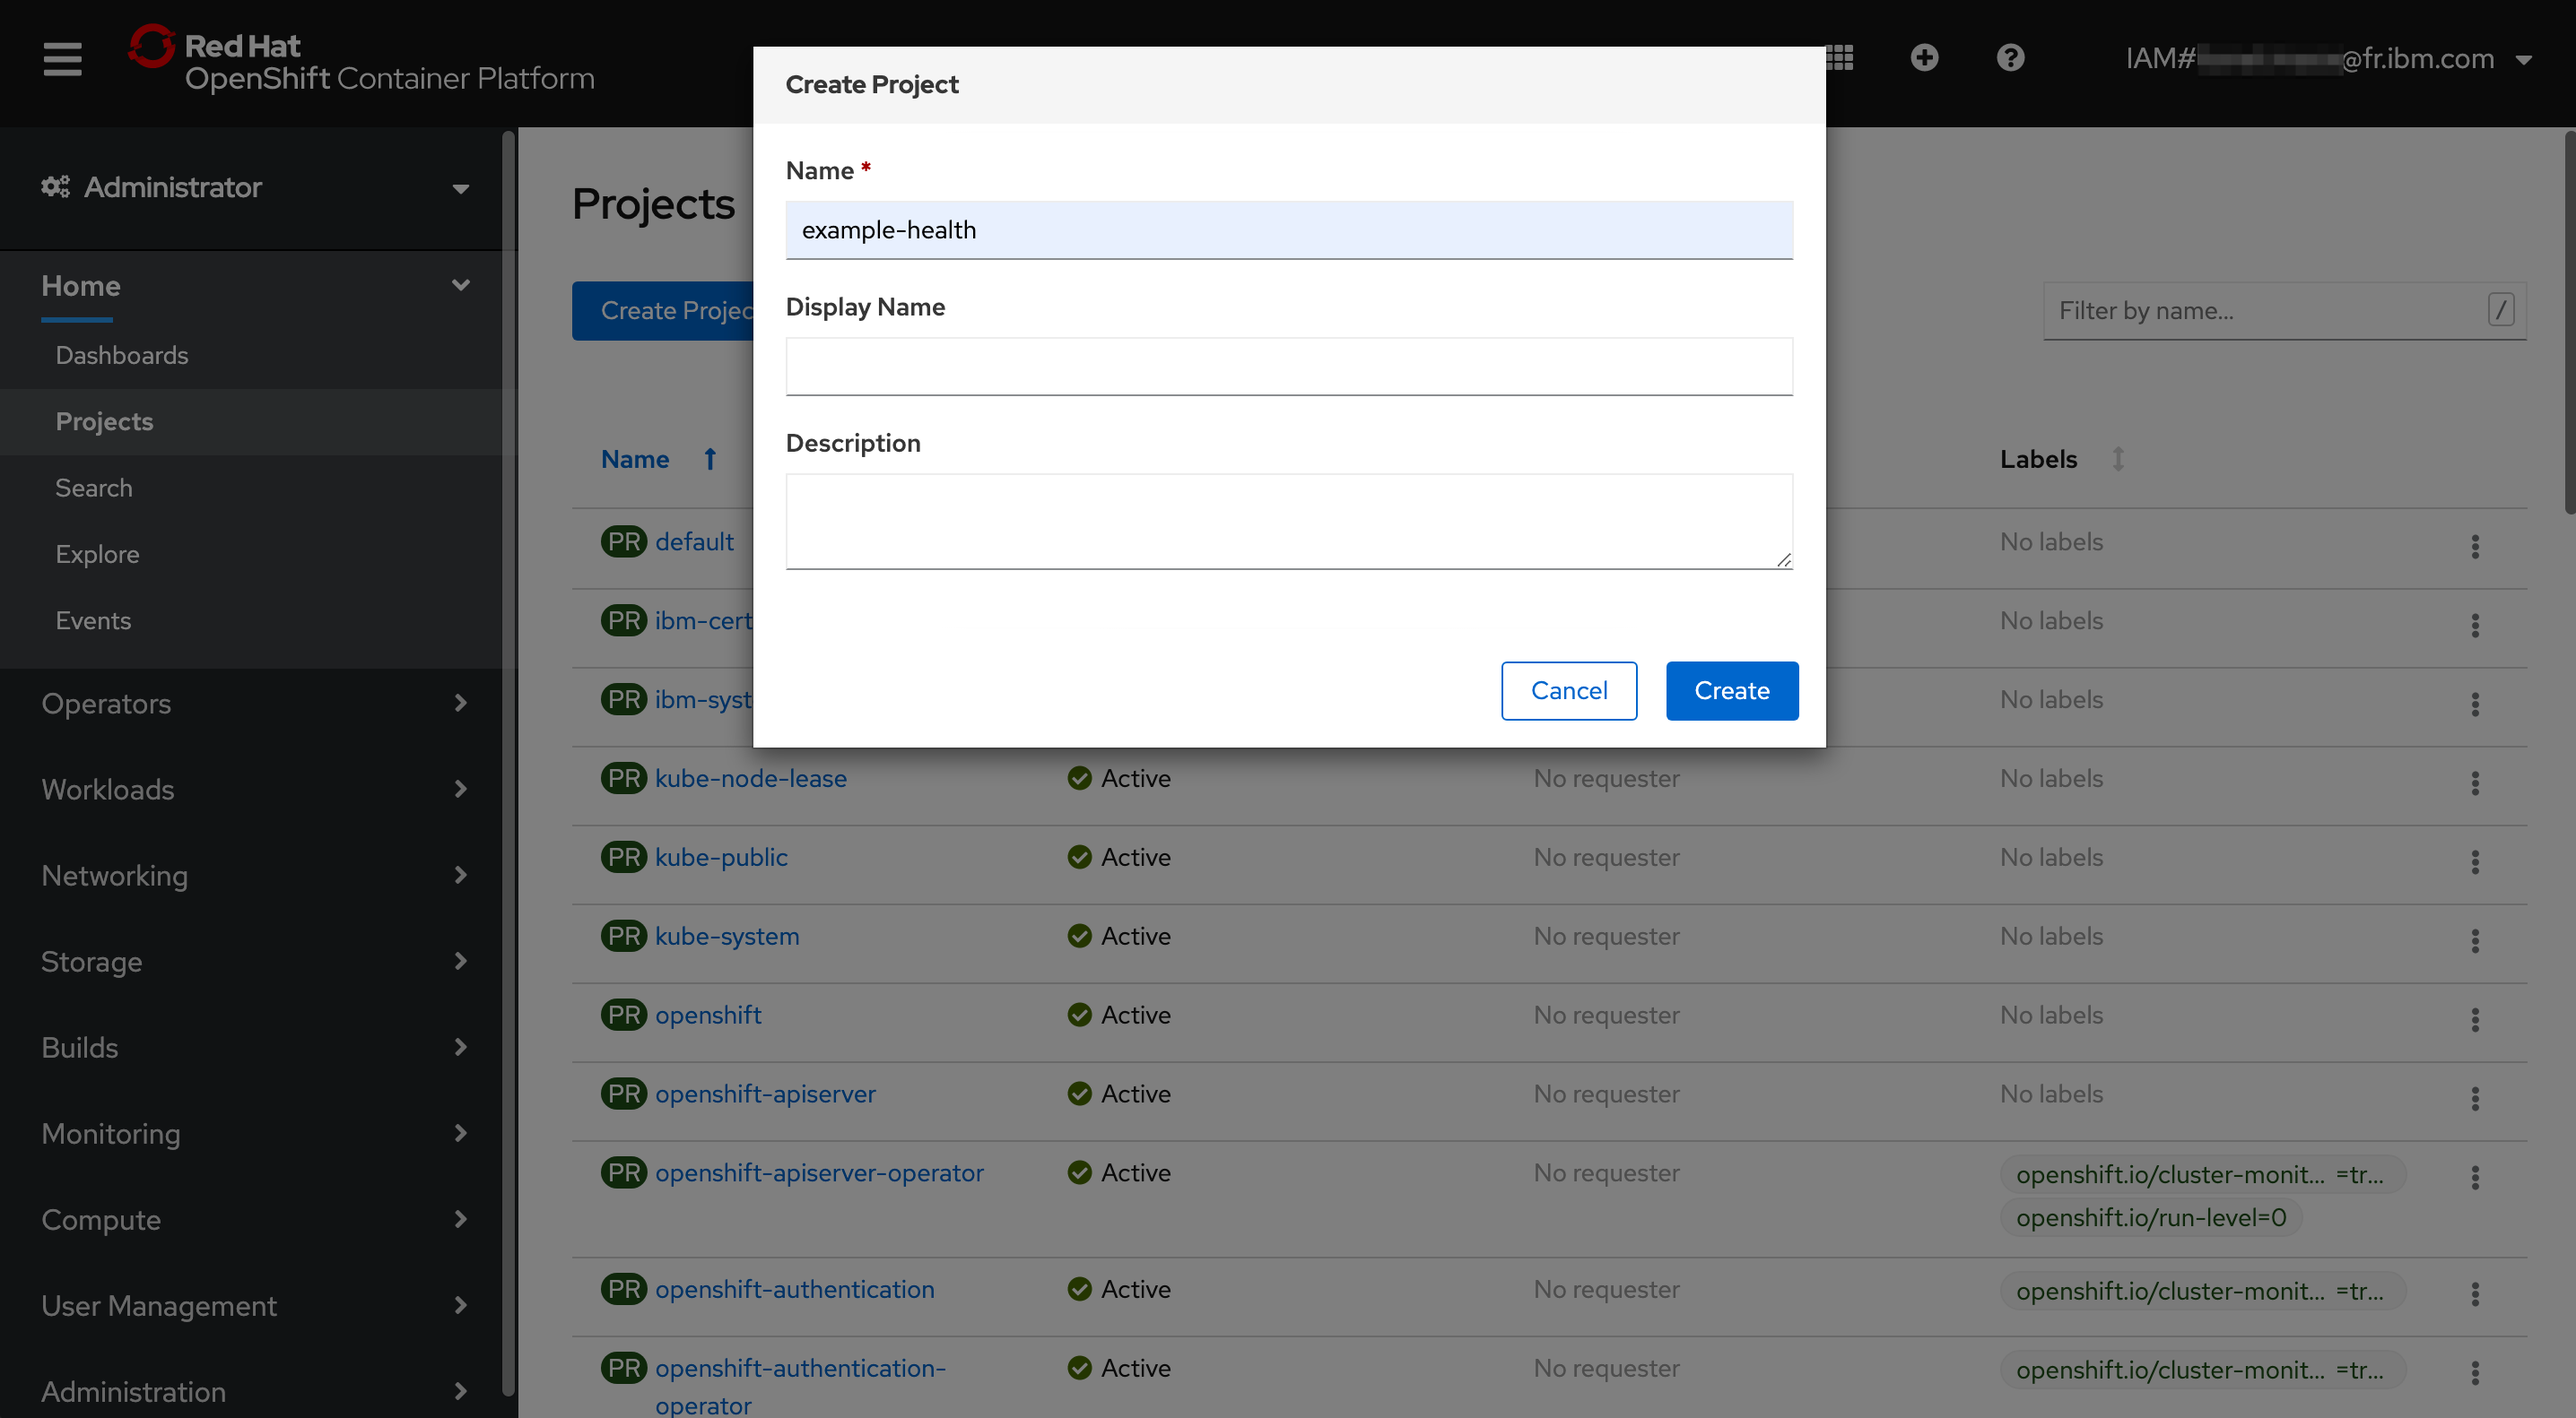
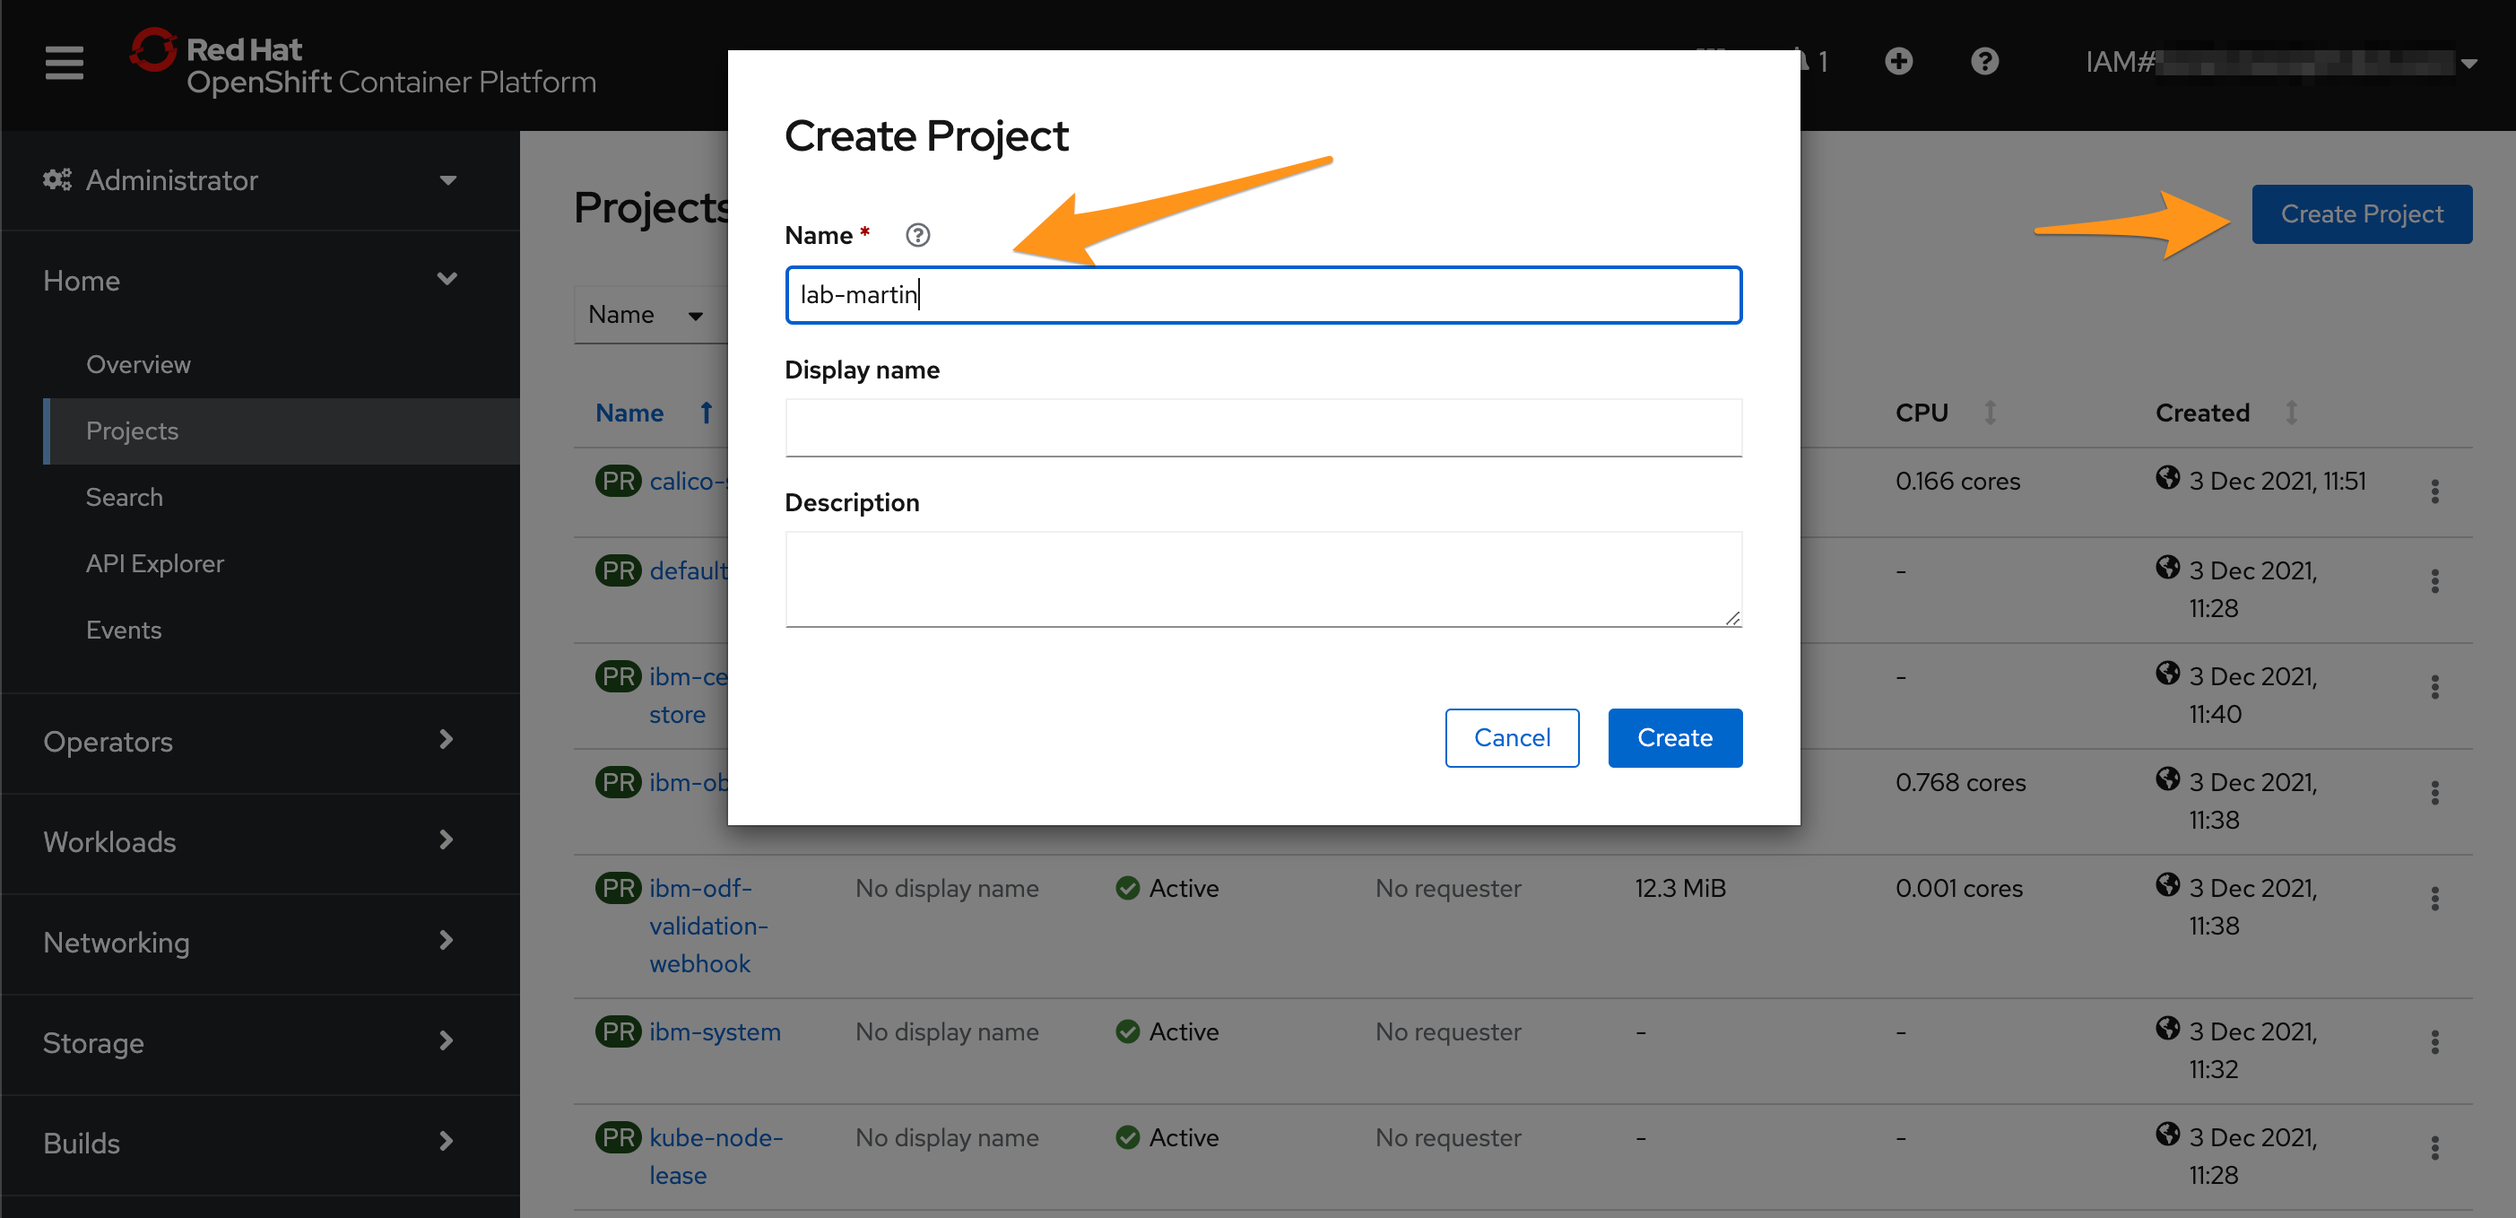
fix bugs

diff --git a/workshop/getting-started/access_cluster.md b/workshop/getting-started/access_cluster.md
@@ -4,26 +4,22 @@ In this section, you will get access to an IBM Cloud Lab account which contains 
 
 ## Navigate to the OpenShift Console
 
-1. Go to the list of [IBM Cloud Resources](https://cloud.ibm.com/resources).
+1. Go to the Resource List [https://cloud.ibm.com/resources](https://cloud.ibm.com/resources). Expand the section **Clusters**. Click on the cluster that has been assigned to you.
 
     ![Resources](../assets/icp-resource-list.png)
 
-2. Expand the section **Clusters**. Click on the cluster that has been assigned to you.
-
-    ![Cluster Overview](../assets/clusters-overview.png)
-
-3. You can also access the cluster directly from the top menu bar.
+1. You can also access the cluster directly from the top menu bar.
 
    ![IBM Cloud Menu](../assets/icp-menu.png)
 
-4. Find your cluster in the list of OpenShift clusters [IBM Cloud Clusters Dashboard](https://cloud.ibm.com/kubernetes/clusters?platformType=openshift)
+1. Find your cluster in the list of OpenShift clusters [IBM Cloud Clusters Dashboard](https://cloud.ibm.com/kubernetes/clusters?platformType=openshift)
  
     ![Clusters Dashboard](../assets/icp-ocp-list.png)
 
-5. Have a look at the cluster overview!
+1. Have a look at the cluster overview!
 
     ![Launch the OpenShift](../assets/cluster-overview.png)
 
-6. Click on **OpenShift web console** on the top right to launch the web console.
+1. Click on **OpenShift web console** on the top right to launch the web console.
 
     ![OpenShift Console](../assets/ocp-console.png)

diff --git a/workshop/part1-learn_openshift/ex-1-deploy.md b/workshop/part1-learn_openshift/ex-1-deploy.md
@@ -12,7 +12,7 @@ In this exercise, you'll deploy a simple Node.js Express application - "Example 
 
     ![project](../assets/ocp-project.png)
 
-1. Create a new project by selecting **Create Project**. Call the project `lab-<your-initials>`.
+1. Create a new project by selecting **Create Project**. Call the project `lab-<your-lastname>`.
 
     {% hint style='info' %} If you've been invited to a lab account, make sure to give a unique project name using your last name. {% endhint %}
 

diff --git a/workshop/getting-started/create_account.md b/workshop/getting-started/create_account.md
@@ -16,4 +16,6 @@ In this section, you will login to your own IBM Cloud account.
 
 ## Create your own account
 
+{% hint style='info' %} If you have been invited to an account, creating an account is optionnal. {% endhint %}
+
 1. Register for your own account: [http://cloud.ibm.com/registration](http://cloud.ibm.com/registration)
